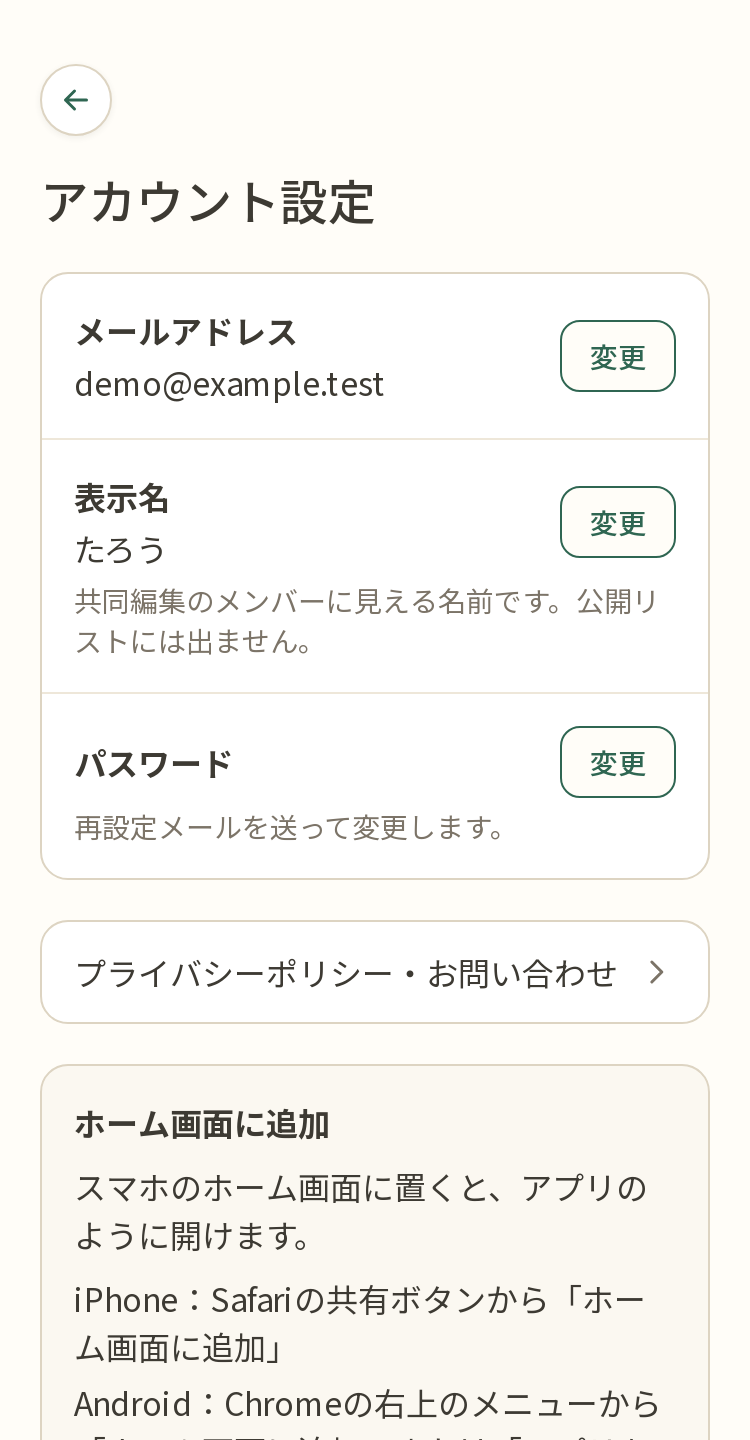
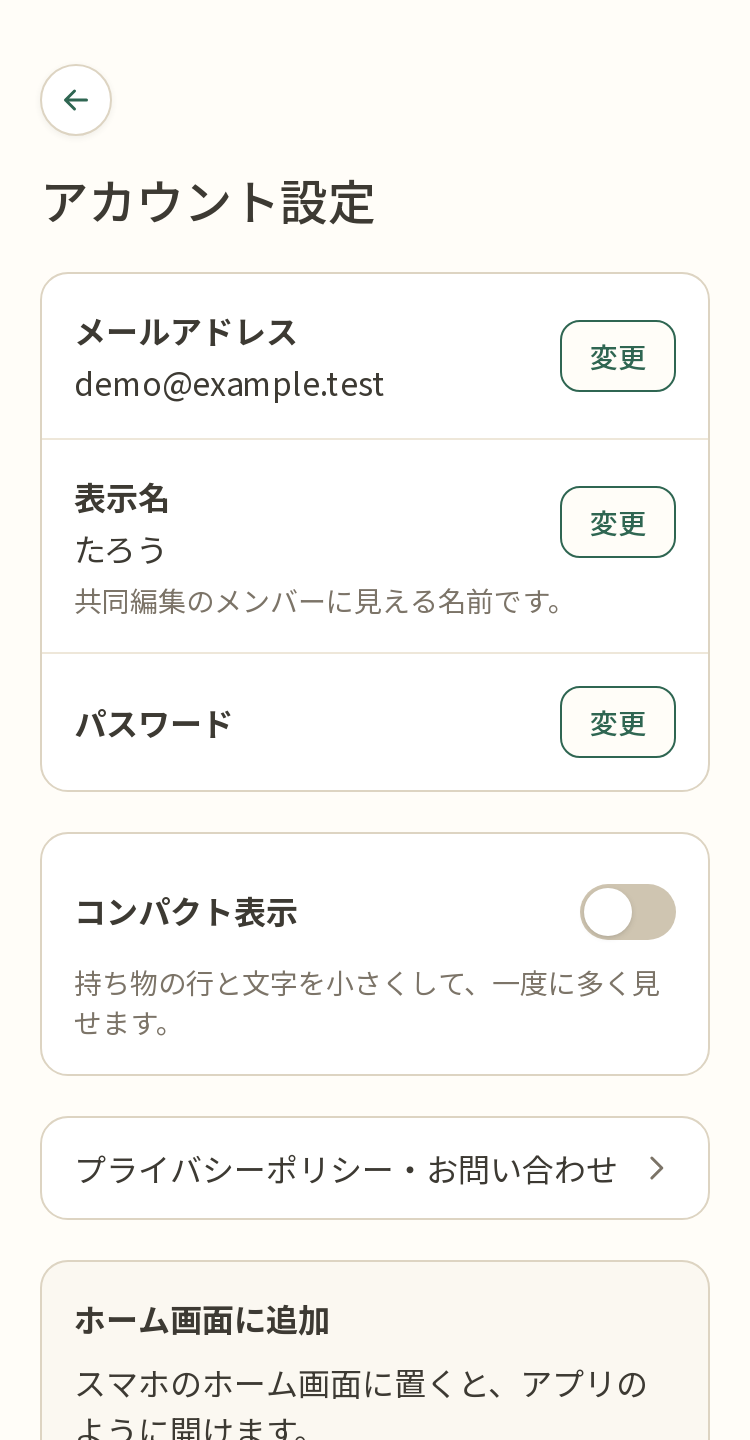
feat: 持ち物の行を詰めるコンパクト表示をアカウント設定で選べるようにし、設定の説明を減らす（D-126・D-73） (#117)
- アカウント設定（SC-12-11）に「コンパクト表示」のスイッチを追加。オンの間は、自分のリストの内容（SC-07）とまとめ表示（SC-20）の
  持ち物の行と見出しを36px・文字14pxに詰める（D-125 の詰めた表示と同じ。画面の幅に関係なく効く）
- 選んだことはこの端末のブラウザに覚え、ページを描く前に読んで、開いたときから詰めた表示で描く
- 「選んで削除」などの選ぶ表示も同じ大きさにする
- アカウント設定の説明の文を減らす（パスワードの行の説明をなくし、表示名とコンパクト表示の説明を1文にする）
- 画面の絵（sc12.png）を撮り直し、frontend/CLAUDE.md と開発規約に決まりを追加

diff --git a/frontend/src/features/auth/CompactDisplaySetting.tsx b/frontend/src/features/auth/CompactDisplaySetting.tsx
@@ -1,0 +1,49 @@
+"use client";
+
+import { useId, useSyncExternalStore } from "react";
+import { SwitchIndicator } from "@/components/SwitchIndicator";
+import { COMPACT_DISPLAY_KEY, COMPACT_DISPLAY_ON } from "@/lib/compactDisplay";
+import { readStored, subscribeStored, writeStored } from "@/lib/deviceMemory";
+import { SettingRow } from "./SettingRow";
+
+/**
+ * SC-12-11・D-126：コンパクト表示のスイッチ。オンにすると、自分のリストの内容（SC-07）とまとめ表示（SC-20）の
+ * 持ち物の行と文字を詰める。この端末のブラウザに覚えるだけで、通信しない。
+ * 印の付け外しは CompactDisplaySync が覚えた値を見て行うので、ここでは値を書くだけにする。
+ */
+export function CompactDisplaySetting() {
+  const titleId = useId();
+  const descriptionId = useId();
+  // サーバーでの表示はオフ（初めの値）にし、覚えた値は表示の後に反映する
+  const on = useSyncExternalStore(
+    subscribeStored,
+    () => readStored(COMPACT_DISPLAY_KEY) === COMPACT_DISPLAY_ON,
+    () => false,
+  );
+
+  return (
+    <SettingRow
+      title="コンパクト表示"
+      titleId={titleId}
+      action={
+        <button
+          type="button"
+          role="switch"
+          aria-checked={on}
+          aria-labelledby={titleId}
+          aria-describedby={descriptionId}
+          onClick={() =>
+            writeStored(COMPACT_DISPLAY_KEY, on ? null : COMPACT_DISPLAY_ON)
+          }
+          className="flex min-h-11 shrink-0 items-center rounded-lg focus-visible:outline-2 focus-visible:outline-offset-2 focus-visible:outline-brand"
+        >
+          <SwitchIndicator on={on} />
+        </button>
+      }
+    >
+      <p id={descriptionId} className="text-sm text-muted">
+        持ち物の行と文字を小さくして、一度に多く見せます。
+      </p>
+    </SettingRow>
+  );
+}

diff --git a/frontend/src/app/account/page.tsx b/frontend/src/app/account/page.tsx
@@ -1,6 +1,7 @@
 import Link from "next/link";
 import { BackLink } from "@/components/BackLink";
 import { Icon } from "@/components/Icon";
+import { CompactDisplaySetting } from "@/features/auth/CompactDisplaySetting";
 import { DeleteAccountDialog } from "@/features/auth/DeleteAccountDialog";
 import { DisplayNameSetting } from "@/features/auth/DisplayNameSetting";
 import { LogoutButton } from "@/features/auth/LogoutButton";
@@ -61,7 +62,8 @@ export default async function AccountPage(props: PageProps<"/account">) {
           <DisplayNameSetting displayName={user.display_name} />
         )}
 
-        {/* SC-12-5・F-13：ログイン中の専用の変更機能は作らず、再設定メールで変える */}
+        {/* SC-12-5・F-13：ログイン中の専用の変更機能は作らず、再設定メールで変える。
+            説明の文は置かない（「変更」で開く再設定メールの画面（SC-14）で分かるため、利用者の指示） */}
         <SettingRow
           title="パスワード"
           action={
@@ -73,10 +75,16 @@ export default async function AccountPage(props: PageProps<"/account">) {
               変更
             </Link>
           }
-        >
-          <p className="text-sm text-muted">再設定メールを送って変更します。</p>
-        </SettingRow>
+        />
       </div>
+
+      {/* SC-12-11・D-126：持ち物の行を詰める表示。リストを使えるメール認証済みの人にだけ出す。
+          アカウントではなく、この端末のブラウザに覚える */}
+      {user.email_verified_at && (
+        <div className="card">
+          <CompactDisplaySetting />
+        </div>
+      )}
 
       <Link
         href={withFrom("/privacy", currentPath)}

diff --git a/frontend/src/app/layout.tsx b/frontend/src/app/layout.tsx
@@ -1,5 +1,7 @@
 import type { Metadata, Viewport } from "next";
 import { Noto_Sans_JP } from "next/font/google";
+import { CompactDisplaySync } from "@/components/CompactDisplaySync";
+import { COMPACT_DISPLAY_SCRIPT } from "@/lib/compactDisplay";
 import "./globals.css";
 
 // D-73：端末ごとに書体が変わらないよう、画面の絵と同じ Noto Sans JP にそろえる（利用者の指示）。
@@ -29,8 +31,18 @@ export const viewport: Viewport = {
 
 export default function RootLayout({ children }: LayoutProps<"/">) {
   return (
-    <html lang="ja" className={`${notoSansJp.variable} h-full antialiased`}>
+    // D-126：<head> の文が、描く前に <html> へコンパクト表示の印（data-compact）を付ける。
+    // サーバーで描いた内容と違ってよい属性なので、食い違いの警告を止める（Next.js の手引きのとおり）
+    <html
+      lang="ja"
+      className={`${notoSansJp.variable} h-full antialiased`}
+      suppressHydrationWarning
+    >
+      <head>
+        <script dangerouslySetInnerHTML={{ __html: COMPACT_DISPLAY_SCRIPT }} />
+      </head>
       <body className="min-h-full flex flex-col">
+        <CompactDisplaySync />
         {/* D-73：スマホ幅を基準に1列で並べ、パソコンでは中央に最大640pxで表示する。
             パソコンでは左右に生成り色の地を見せ、画面の地（少し明るい色）と線で分ける。
             D-124：まとめ表示（SC-20、data-wide-page）だけは、幅1024px以上でリストを横に並べるため最大1280pxにする */}

diff --git a/frontend/src/features/lists/SelectionList.tsx b/frontend/src/features/lists/SelectionList.tsx
@@ -45,10 +45,11 @@ export function SelectionList({
                 aria-pressed={selected}
                 disabled={disabled || byGroup}
                 onClick={() => onToggleItem(item.id)}
-                className="flex min-h-11 w-full items-center gap-2 text-left disabled:cursor-default"
+                // D-126：コンパクト表示では、選ぶ前の行（ItemRow）と同じ高さ・文字に詰める
+                className="flex min-h-11 w-full items-center gap-2 text-left disabled:cursor-default dense:min-h-9"
               >
                 <SelectMark selected={selected} />
-                <span className="min-w-0 flex-1 wrap-break-word">
+                <span className="min-w-0 flex-1 wrap-break-word dense:text-sm">
                   {item.name}
                 </span>
               </button>
@@ -85,10 +86,10 @@ export function SelectionList({
                   aria-label={`${group.name}（グループごと選ぶ）`}
                   disabled={disabled}
                   onClick={() => onToggleGroup(group.id)}
-                  className="flex min-h-11 w-full items-center gap-2 px-2 text-left"
+                  className="flex min-h-11 w-full items-center gap-2 px-2 text-left dense:min-h-9"
                 >
                   <SelectMark selected={selected} />
-                  <span className="min-w-0 flex-1">
+                  <span className="min-w-0 flex-1 dense:text-sm">
                     {group.name}
                     <span className="text-sm font-normal whitespace-nowrap text-muted">
                       （{rows.length}件）

diff --git a/frontend/src/lib/compactDisplay.ts b/frontend/src/lib/compactDisplay.ts
@@ -1,0 +1,13 @@
+// D-126：持ち物の行と文字を詰める「コンパクト表示」。選んだことは、この端末のブラウザに覚える（サーバーには保存しない）。
+// オンの間は <html> に data-compact を付け、見た目は globals.css の dense: で変える。
+// このファイルはサーバーでも読む（layout.tsx）ので、ブラウザの機能を使う処理は置かない。
+export const COMPACT_DISPLAY_KEY = "mochikore:compact-display";
+export const COMPACT_DISPLAY_ON = "1";
+export const COMPACT_DISPLAY_ATTRIBUTE = "data-compact";
+
+/**
+ * ページの最初（<head>）で動かす文。React が動く前に覚えた値を読んで印を付け、開いたときから詰めた表示で描く
+ * （後から付けると、読み込みのたびに行の高さが変わって見える）。
+ * この時点では lib/deviceMemory.ts を使えないので、ここだけ localStorage を直接読む。読めないときは何もしない。
+ */
+export const COMPACT_DISPLAY_SCRIPT = `(function(){try{if(localStorage.getItem(${JSON.stringify(COMPACT_DISPLAY_KEY)})===${JSON.stringify(COMPACT_DISPLAY_ON)})document.documentElement.setAttribute(${JSON.stringify(COMPACT_DISPLAY_ATTRIBUTE)},"")}catch(e){}})()`;

diff --git a/frontend/src/app/globals.css b/frontend/src/app/globals.css
@@ -14,10 +14,14 @@
 */
 @custom-variant can-split (@media (width < 64rem) and (height >= 30rem));
 /*
-  D-125：まとめ表示でリストが2件のスマホ（分割のアイコンを出すとき、data-dense の中）。分割表示・通常表示のどちらでも、
-  見える量を増やすため持ち物の行・見出し・余白を詰める（利用者の指示）。split: より前に置き、同じ指定は split: を優先する
+  持ち物の行・見出し・余白を詰める表示。次のどちらかのときに効く。split: より前に置き、同じ指定は split: を優先する
+  ・D-126：コンパクト表示を選んでいるとき（<html> の data-compact）。画面の幅に関係なく効く
+  ・D-125：まとめ表示でリストが2件のスマホ（分割のアイコンを出すとき、data-dense の中）。分割表示・通常表示とも
 */
 @custom-variant dense {
+  &:where([data-compact], [data-compact] *) {
+    @slot;
+  }
   @media (width < 64rem) and (height >= 30rem) {
     &:where([data-dense], [data-dense] *) {
       @slot;

diff --git a/frontend/src/components/CompactDisplaySync.tsx b/frontend/src/components/CompactDisplaySync.tsx
@@ -1,0 +1,28 @@
+"use client";
+
+import { useLayoutEffect } from "react";
+import {
+  COMPACT_DISPLAY_ATTRIBUTE,
+  COMPACT_DISPLAY_KEY,
+  COMPACT_DISPLAY_ON,
+} from "@/lib/compactDisplay";
+import { readStored, subscribeStored } from "@/lib/deviceMemory";
+
+/**
+ * D-126：コンパクト表示の印（<html> の data-compact）を、覚えた値に合わせ続ける。画面には何も出さない。
+ * 開いたときの印は layout.tsx の <head> の文が付ける。ここでは、アカウント設定（SC-12）や別のタブで切り替えたときに
+ * 付け外しする。開発中は React が確認のために部品を作り直し、<html> の印を消すので、描く前に付け直す役目もある。
+ */
+export function CompactDisplaySync() {
+  useLayoutEffect(() => {
+    const apply = () =>
+      document.documentElement.toggleAttribute(
+        COMPACT_DISPLAY_ATTRIBUTE,
+        readStored(COMPACT_DISPLAY_KEY) === COMPACT_DISPLAY_ON,
+      );
+    apply();
+    return subscribeStored(apply);
+  }, []);
+
+  return null;
+}

diff --git a/frontend/src/features/auth/DisplayNameSetting.tsx b/frontend/src/features/auth/DisplayNameSetting.tsx
@@ -98,7 +98,7 @@ export function DisplayNameSetting({ displayName }: Props) {
         }
       >
         <p className="text-sm text-muted">
-          共同編集のメンバーに見える名前です。公開リストには出ません。
+          共同編集のメンバーに見える名前です。
         </p>
         {saved && (
           <p role="status" className="text-sm">
@@ -118,7 +118,7 @@ export function DisplayNameSetting({ displayName }: Props) {
           value={name}
           error={nameError}
           disabled={sending}
-          hint="共同編集のメンバーに見える名前です。公開リストには出ません。"
+          hint="共同編集のメンバーに見える名前です。"
           labelledBy={titleId}
           autoFocus
           onChange={(value) => {

diff --git a/frontend/src/features/lists/ListDetail.tsx b/frontend/src/features/lists/ListDetail.tsx
@@ -1760,7 +1760,9 @@ export function ListDetail({
           )}
 
           {/* 空のリストや選ぶ表示へ変わっても同じ入力行を残し、下書きと連続入力のカーソルを保つ。 */}
-          <div className={selecting ? "hidden" : "flex flex-col gap-3"}>
+          <div
+            className={selecting ? "hidden" : "flex flex-col gap-3 dense:gap-2"}
+          >
             {/* SC-07-20・D-94（利用者の指示）：一覧のすぐ上に置き、チェック済みのものがあるときだけ出す
               （チェック済みの空グループだけを隠しているときも出し直せるように、空グループのチェックも数える）。
               画面の表示だけを変え、通信しない。

diff --git a/docs/開発規約.md b/docs/開発規約.md
@@ -433,7 +433,7 @@ frontend/src/
 
 - 分けるのは「2か所以上で使う」「`use client` の範囲を小さくできる」ときだけです。
 - 確認ダイアログや通知など、02_画面配置の「共通」にある部品は `components/` に置きます。
-- 画面は375px基準の1列、パソコンでは最大640pxにします（D-73）。まとめ表示（SC-20）だけは、幅1024px以上で最大1280pxにしてリストを横に並べます（`main` の `data-wide-page`、D-124）。リストが複数並ぶので、狭い画面に詰めず、1列を320px以上にします。リストが2件のスマホでは上下に分け、それぞれをスクロールできるようにします（分割表示、D-125）。開いたときから分割表示で描けるよう、形は CSS の `split:` で決めます。リストが2件のスマホでは、分割表示・通常表示のどちらでも、見える量を増やすため持ち物の行・見出しを36px・文字を14pxに詰めます（`dense:`、押せる範囲44pxの例外、D-125）。入力欄の文字は、iPhone で拡大されないよう16pxのままにします。
+- 画面は375px基準の1列、パソコンでは最大640pxにします（D-73）。まとめ表示（SC-20）だけは、幅1024px以上で最大1280pxにしてリストを横に並べます（`main` の `data-wide-page`、D-124）。リストが複数並ぶので、狭い画面に詰めず、1列を320px以上にします。リストが2件のスマホでは上下に分け、それぞれをスクロールできるようにします（分割表示、D-125）。開いたときから分割表示で描けるよう、形は CSS の `split:` で決めます。リストが2件のスマホでは、分割表示・通常表示のどちらでも、見える量を増やすため持ち物の行・見出しを36px・文字を14pxに詰めます（`dense:`、押せる範囲44pxの例外、D-125）。アカウント設定の「コンパクト表示」を選んだ人には、画面の幅に関係なく同じ大きさで出します（D-126）。入力欄の文字は、iPhone で拡大されないよう16pxのままにします。
 - 文字だけのリンク・ボタン（下線の文字など）は、押せる範囲を縦44px・横は文字の幅にします（D-73）。`tap-target`（`app/globals.css`）を付け、縦並び（`flex flex-col`）の中では `self-start` も付けます。縦並びの中のリンクは何も付けないと横いっぱいに広がり、下線より右まで押せてしまうためです。`tap-target` は文字の中央に透明な押せる範囲を重ねるので、見た目と並びは変わりません。
 - 押せるボタン・チェック欄・選択肢は、マウスを重ねるとリンクと同じ指の形にします（D-73）。`app/globals.css` でまとめて指定しているので、部品ごとに `cursor-pointer` を付けません。Tailwind v4 は初期設定でボタンも矢印のままにするためです。押せないとき（`disabled`）は矢印に戻ります。並べ替えでつかむ所の `cursor-grab` は部品の指定が優先されます。dnd-kit がドラッグできる行に付ける `role="button"` は、行全体が指の形にならないよう対象にしていません。
 - 配色は「02_画面の絵」と同じ、生成り色の地と深い緑にします（D-73）。色には `app/globals.css` で名前を付けています（地 `canvas`・`background`・`sunken`、文字 `foreground`・`muted`・`faint`、線 `line-soft`・`line`・`line-strong`、緑 `brand`・`brand-deep`・`brand-soft`、控えめな背景 `sand`、削除・エラー `danger`）。`bg-brand`・`text-muted` のように使い、`zinc` などの色や色の値を部品に直接書きません。あとで色を変えるときに1か所で済むようにするためです。
@@ -457,7 +457,7 @@ Cache Componentsは使いません（D-75）。`next.config.ts` に `cacheCompon
 | ★ `params`・`searchParams`・`cookies()` は `await` する | Next.js 16で必須 |
 | ★ 本人のデータをキャッシュしない | 他人のデータが見えるのを防ぐ |
 | ★ 復元候補とSC-09の下書きは `useState` に置き、ブラウザへ保存しない | D-28、API-30 |
-| localStorageに覚えるのは、SC-07のたたんだグループ・まとめ表示（SC-20）でたたんだリストのIDと、まとめ表示ごとの表示方法・上下の比率だけ（`lib/deviceMemory.ts` を通す）。名前などの中身は入れない | D-110・D-124・D-125。開き直しても保つため。サーバーに保存しない |
+| localStorageに覚えるのは、SC-07のたたんだグループ・まとめ表示（SC-20）でたたんだリストのIDと、まとめ表示ごとの表示方法・上下の比率、コンパクト表示を選んだかだけ（`lib/deviceMemory.ts` を通す）。名前などの中身は入れない | D-110・D-124・D-125・D-126。開き直しても保つため。サーバーに保存しない |
 | ★ 認証が必要な画面への `Link` は `prefetch={false}` にする | D-36。先読みで期限を延ばさない |
 | `proxy.ts` だけで画面を守らない。`middleware.ts` も使わない | 公式の注意 |
 
